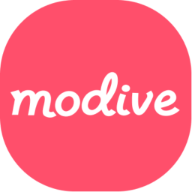
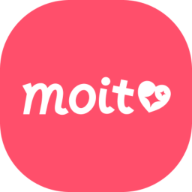
feat: update SEO

diff --git a/src/lib/seo.tsx b/src/lib/seo.tsx
@@ -9,7 +9,7 @@ const baseUrl = process.env.NEXT_PUBLIC_BASE_URL || 'http://localhost:3000';
  * This is merged with page-specific metadata in the root layout.
  */
 export const defaultMetadata: Metadata = {
-  applicationName: 'Modive',
+  applicationName: 'Moit',
   authors: [{ name: 'Modive Team' }],
   creator: 'Modive Team',
   publisher: 'Modive',
@@ -30,13 +30,13 @@ export const defaultMetadata: Metadata = {
   },
   openGraph: {
     type: 'website',
-    siteName: 'Modive',
+    siteName: 'Moit',
     images: [
       {
         url: '/android-chrome-512x512.png',
         width: 512,
         height: 512,
-        alt: 'Modive Logo',
+        alt: 'Moit Logo',
       },
     ],
   },
@@ -69,7 +69,7 @@ export const defaultMetadata: Metadata = {
     'mobile-web-app-capable': 'yes',
     'apple-mobile-web-app-capable': 'yes',
     'apple-mobile-web-app-status-bar-style': 'default',
-    'apple-mobile-web-app-title': 'Modive',
+    'apple-mobile-web-app-title': 'Moit',
   },
 };
 
@@ -78,11 +78,9 @@ function getWebsiteSchema(locale: string, baseUrl: string) {
   return {
     '@context': 'https://schema.org',
     '@type': 'WebSite',
-    name: 'Modive',
+    name: 'Moit',
     description:
-      locale === 'ko'
-        ? '현대적인 AI 챗봇 애플리케이션'
-        : 'A modern AI chatbot application',
+      locale === 'ko' ? 'AI 캐릭터챗 모잇' : 'AI Character Chat Moit',
     url: baseUrl,
     inLanguage: LOCALE_TO_RFC5646[locale] || 'en-US',
     potentialAction: {
@@ -108,7 +106,7 @@ function getWebApplicationSchema(locale: string, baseUrl: string) {
   return {
     '@context': 'https://schema.org',
     '@type': 'WebApplication',
-    name: 'Modive',
+    name: 'Moit',
     description:
       locale === 'ko'
         ? '현대적인 AI 챗봇 애플리케이션'

diff --git a/src/app/[locale]/(main)/(home)/Home.client.tsx b/src/app/[locale]/(main)/(home)/Home.client.tsx
@@ -23,7 +23,7 @@ export default function HomeClient({ interfaceData }: HomeProps) {
           <div key={banner.key} className="relative aspect-[9/5]">
             <Image
               src={getPublicUrl(banner.key)}
-              alt="Modive banner"
+              alt="Moit banner"
               fill
               className="object-cover"
             />
